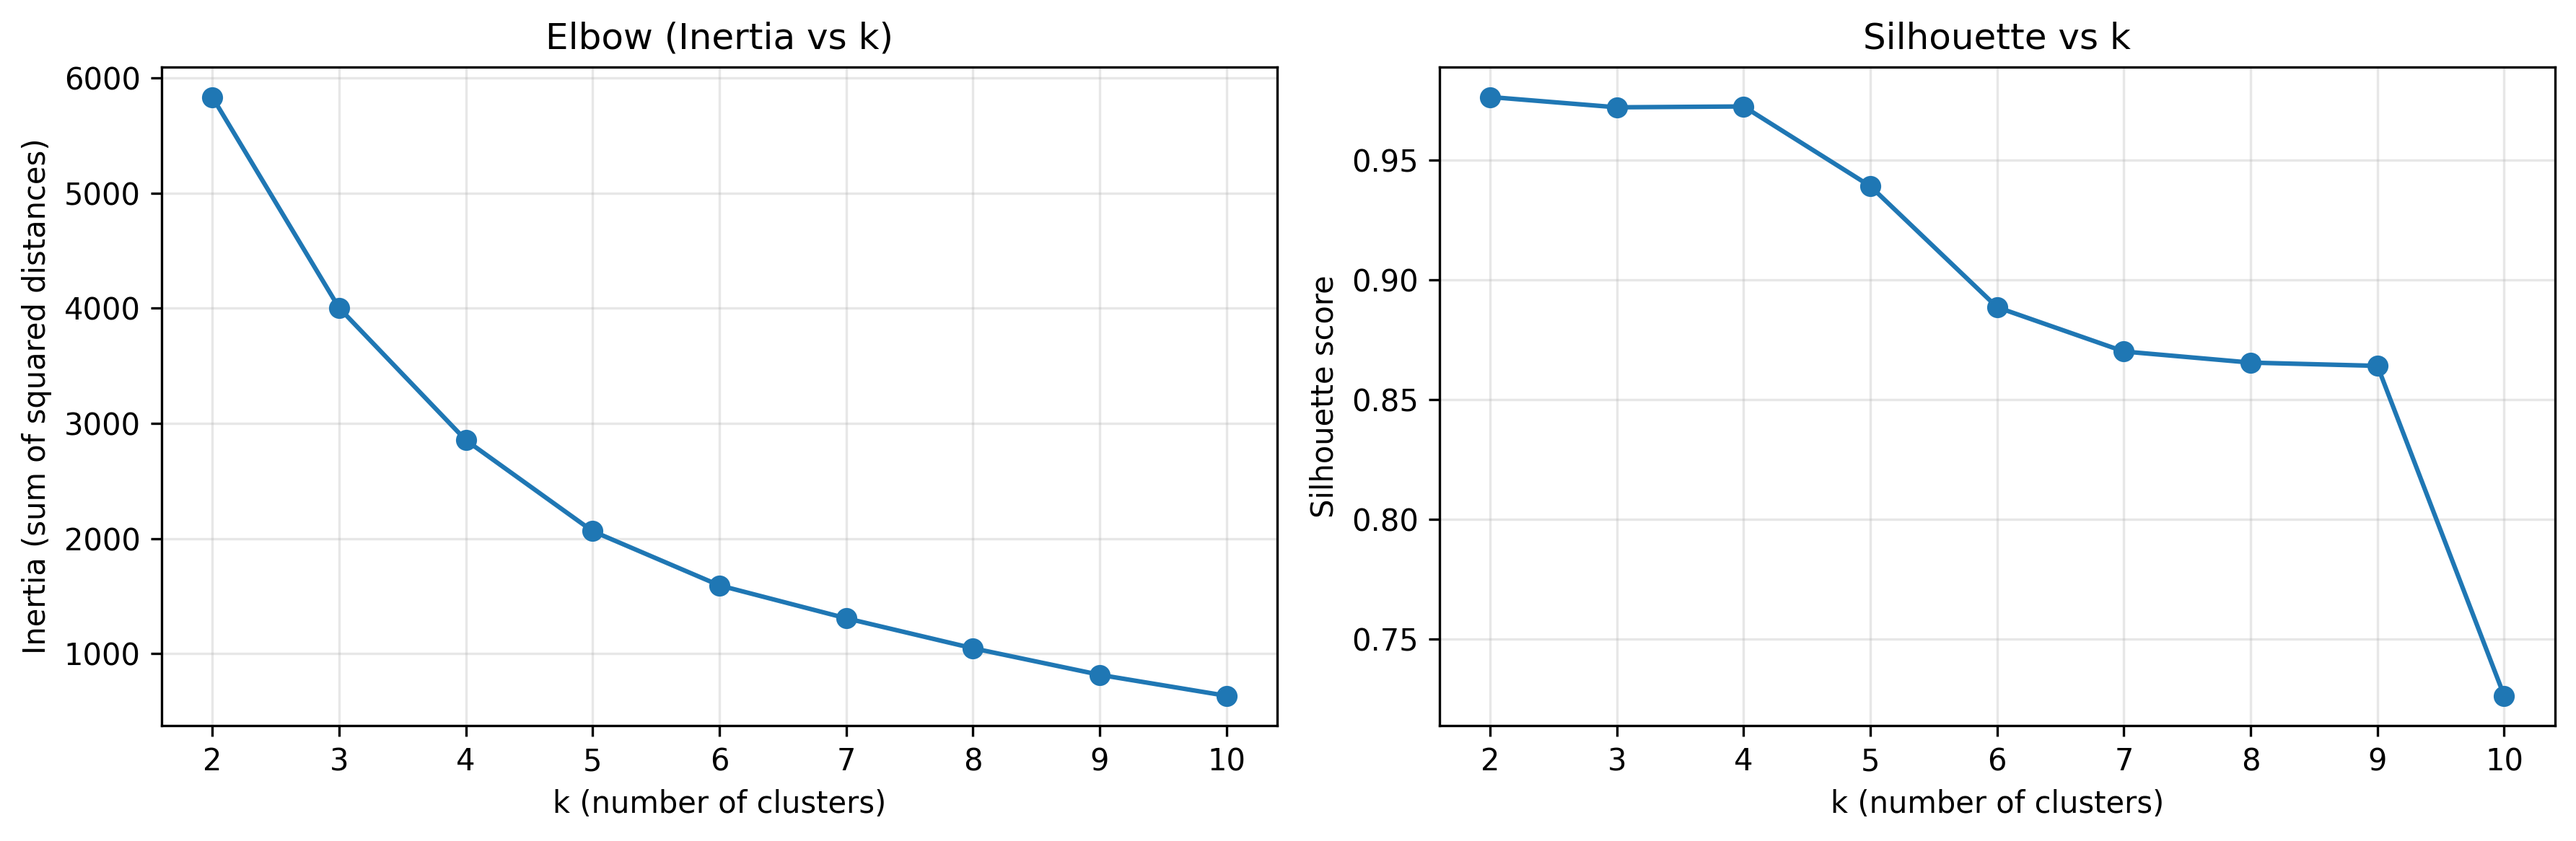
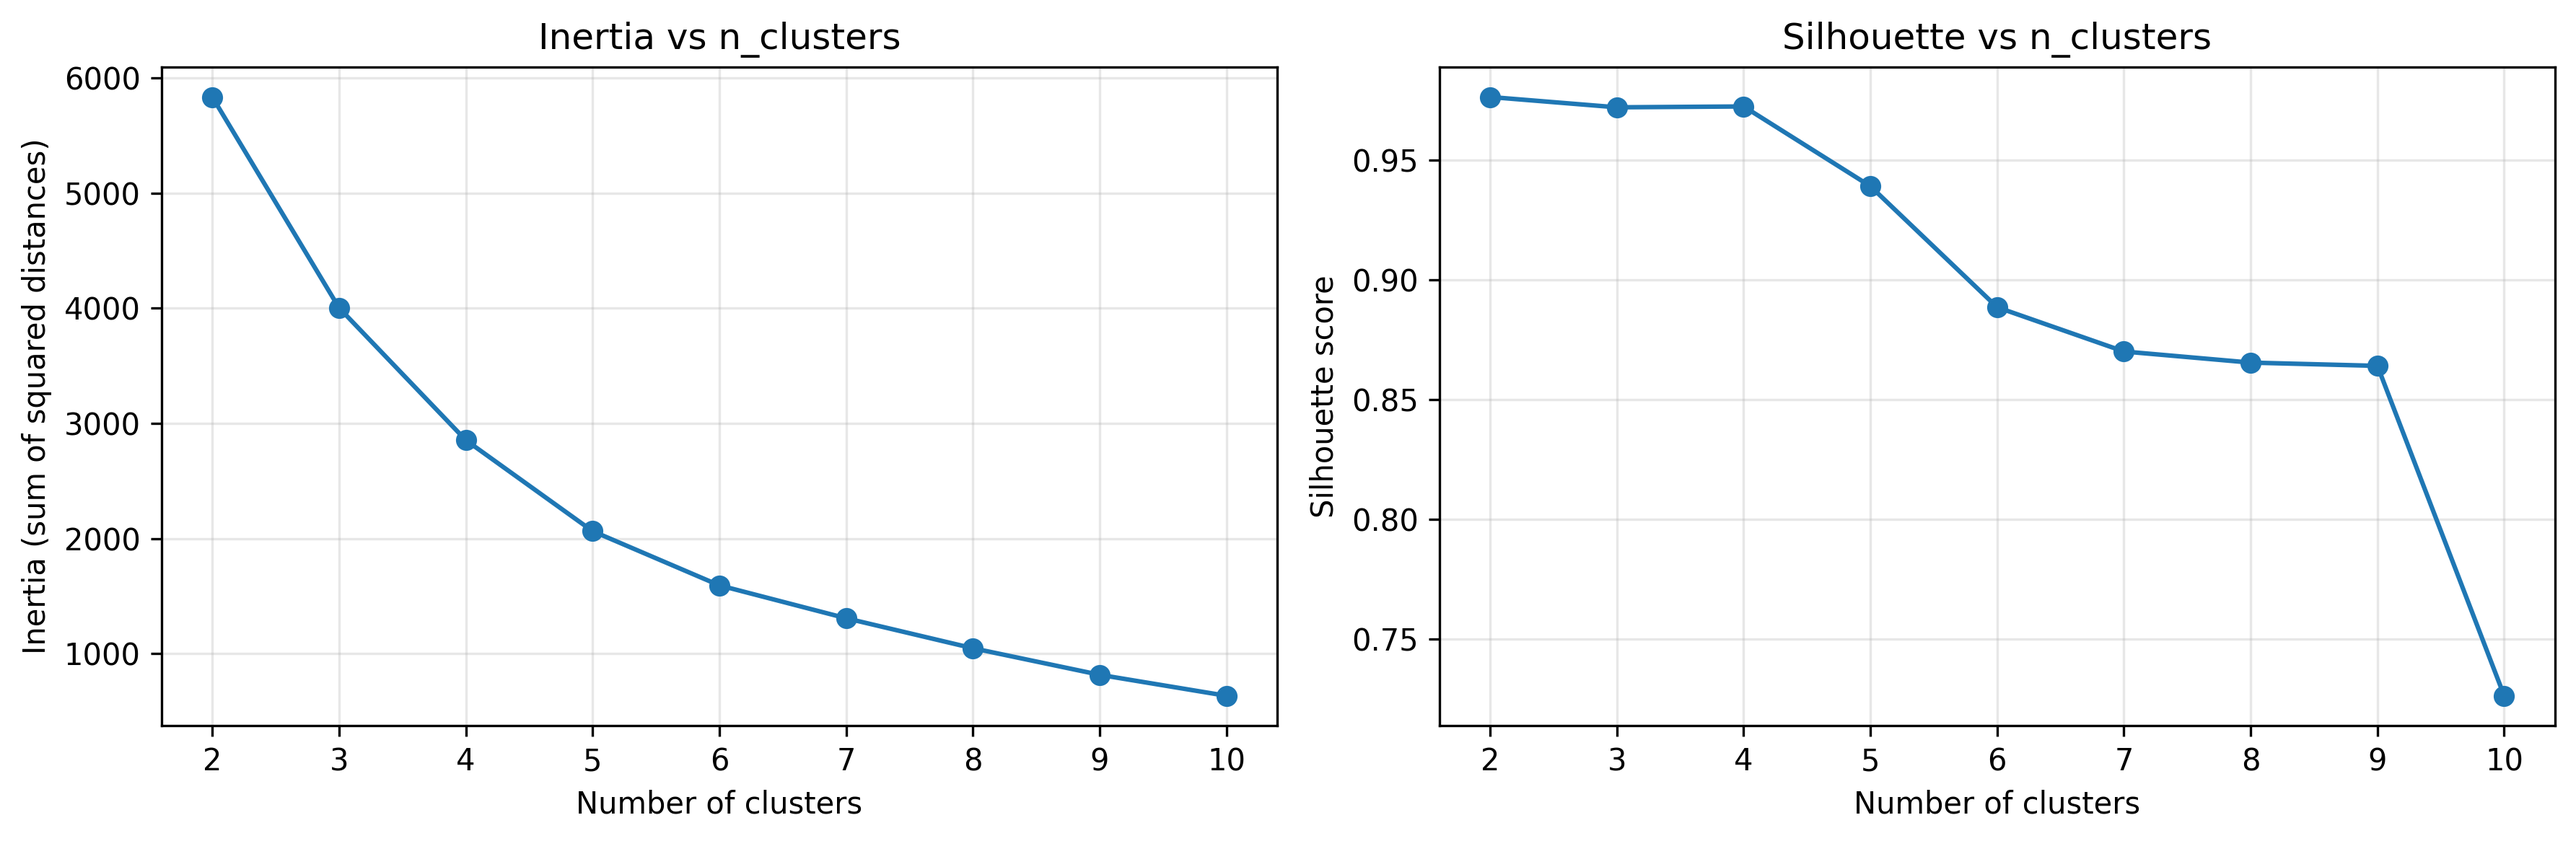
chore: cleanup

diff --git a/main.py b/main.py
@@ -71,16 +71,16 @@ fig, axes = plt.subplots(1, 2, figsize=(12, 4), sharex=False)
 # Right plot: elbow with inertia
 axes[0].plot(ks, inertias, marker="o")
 axes[0].set_xticks(list(ks))
-axes[0].set_xlabel("k (number of clusters)")
+axes[0].set_xlabel("Number of clusters")
 axes[0].set_ylabel("Inertia (sum of squared distances)")
-axes[0].set_title("Elbow (Inertia vs k)")
+axes[0].set_title("Inertia vs n_clusters")
 axes[0].grid(True, alpha=0.3)
 # Right plot: elbow with silhouettes
 axes[1].plot(ks_sil, silhouettes, marker="o")
 axes[1].set_xticks(list(ks_sil))
-axes[1].set_xlabel("k (number of clusters)")
+axes[1].set_xlabel("Number of clusters")
 axes[1].set_ylabel("Silhouette score")
-axes[1].set_title("Silhouette vs k")
+axes[1].set_title("Silhouette vs n_clusters")
 axes[1].grid(True, alpha=0.3)
 plt.tight_layout()
 plt.savefig(os.path.join(PLOTS_DIR, "elbow_curves.png"), dpi=300, bbox_inches="tight")
